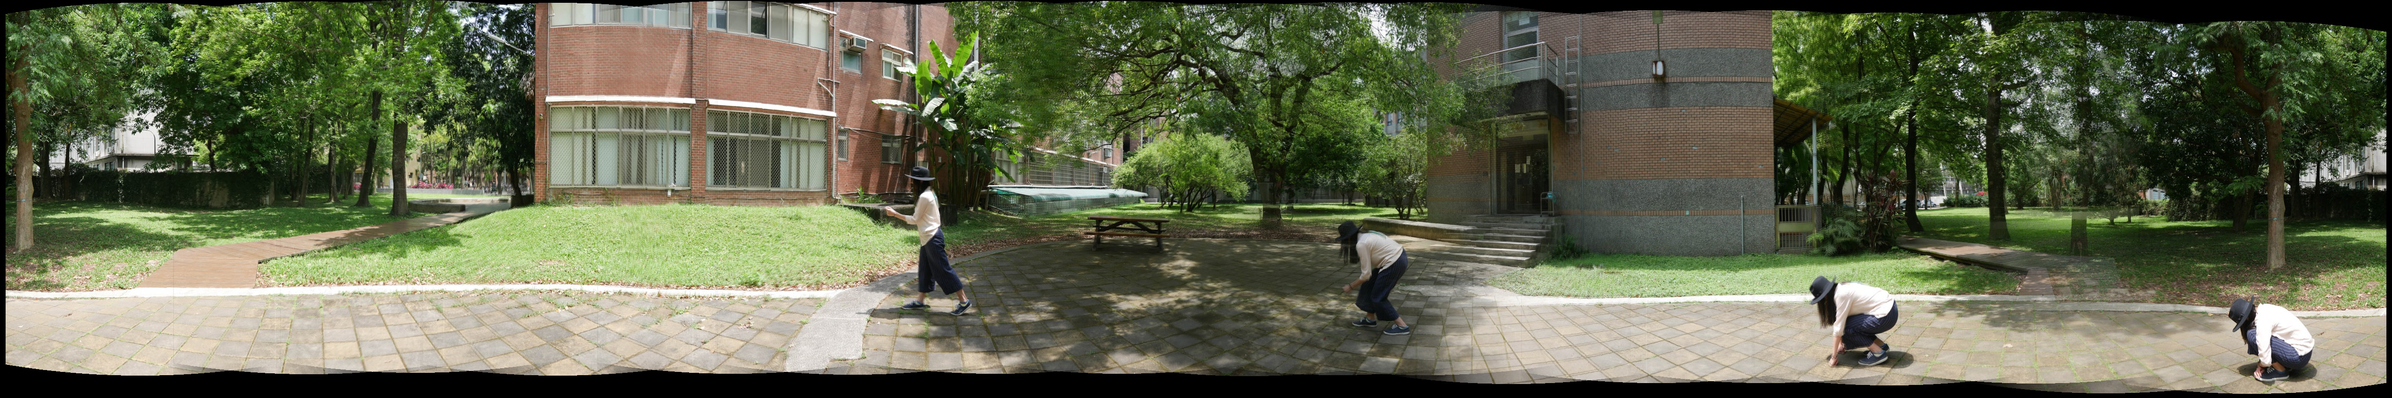
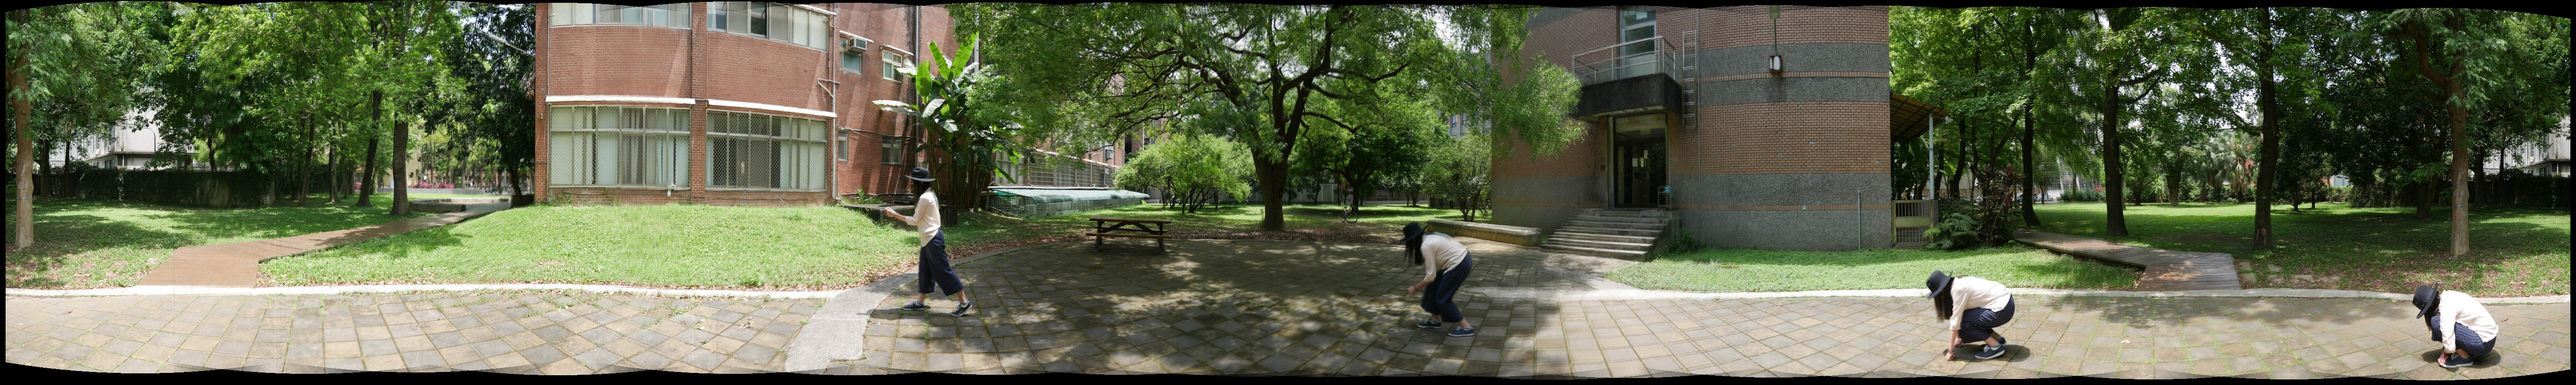
final

diff --git a/src/image_stitching.cpp b/src/image_stitching.cpp
@@ -650,31 +650,33 @@ void get_all_kps(vector<vector<KeyPoint> > &all_kps, const vector<Mat> &images){
 
 void panorama(const vector<Mat> &cy_Mat, const vector<pair<double,double> > &dxdy){
     cout << "Generating panorama !!" << endl;
-    double y_bias = 0;
     Mat result_mat = cy_Mat[0].clone();
 
-    // for(const auto &i:dxdy)
-    //     y_bias += i.second;
-    // y_bias /= dxdy.size();
-    // cout << y_bias << endl;
-    // for(int i = 0; i < dxdy.size();i++){
+    double y_bias = 0;
+    double x_bias = 0;
+    for(int i =0;i<dxdy.size();i++){
+        x_bias += abs(dxdy[i].first);
+        y_bias += dxdy[i].second;
+    }
     
+    y_bias /= x_bias;
+
     for(int i = 0; i < dxdy.size();i++){
         double temp_dx = 0;
         double temp_dy = 0;
         if(dxdy[i].first > 0){
             temp_dx = (result_mat.cols - cy_Mat[i+1].cols)/2.0 + dxdy[i].first;
             // temp_dy += (dxdy[i].second - y_bias);
-            result_mat = cylindrical_merge(result_mat,cy_Mat[i+1],temp_dx,(dxdy[i].second - y_bias),0);
+            result_mat = cylindrical_merge(result_mat,cy_Mat[i+1],temp_dx,(dxdy[i].second - y_bias*dxdy[i].first),0);
         }
         else{
             temp_dx = (result_mat.cols - cy_Mat[i+1].cols)/2.0 - dxdy[i].first;
-            temp_dy = (result_mat.rows - cy_Mat[i+1].rows)/2.0 - (dxdy[i].second - y_bias);
+            temp_dy = (result_mat.rows - cy_Mat[i+1].rows)/2.0 - (dxdy[i].second - y_bias*(-dxdy[i].first));
             // temp_dy = -(dxdy[i].second - y_bias);
             result_mat = cylindrical_merge(cy_Mat[i+1],result_mat,temp_dx,temp_dy,0);
         }
     }
+    imwrite("../panorama.jpg",result_mat);
     imshow("panorama",result_mat);
     waitKey(0);
-    imwrite("../panorama.jpg",result_mat);
 }

diff --git a/src/openmp/image_stitching.cpp b/src/openmp/image_stitching.cpp
@@ -688,7 +688,8 @@ void panorama(const vector<Mat> &cy_Mat, const vector<pair<double,double> > &dxd
             result_mat = cylindrical_merge(cy_Mat[i+1],result_mat,temp_dx,temp_dy,0);
         }
     }
-    // imshow("panorama",result_mat);
-    // waitKey(0);
     imwrite("../panorama.jpg",result_mat);
+    imshow("panorama",result_mat);
+    waitKey(0);
+    
 }
